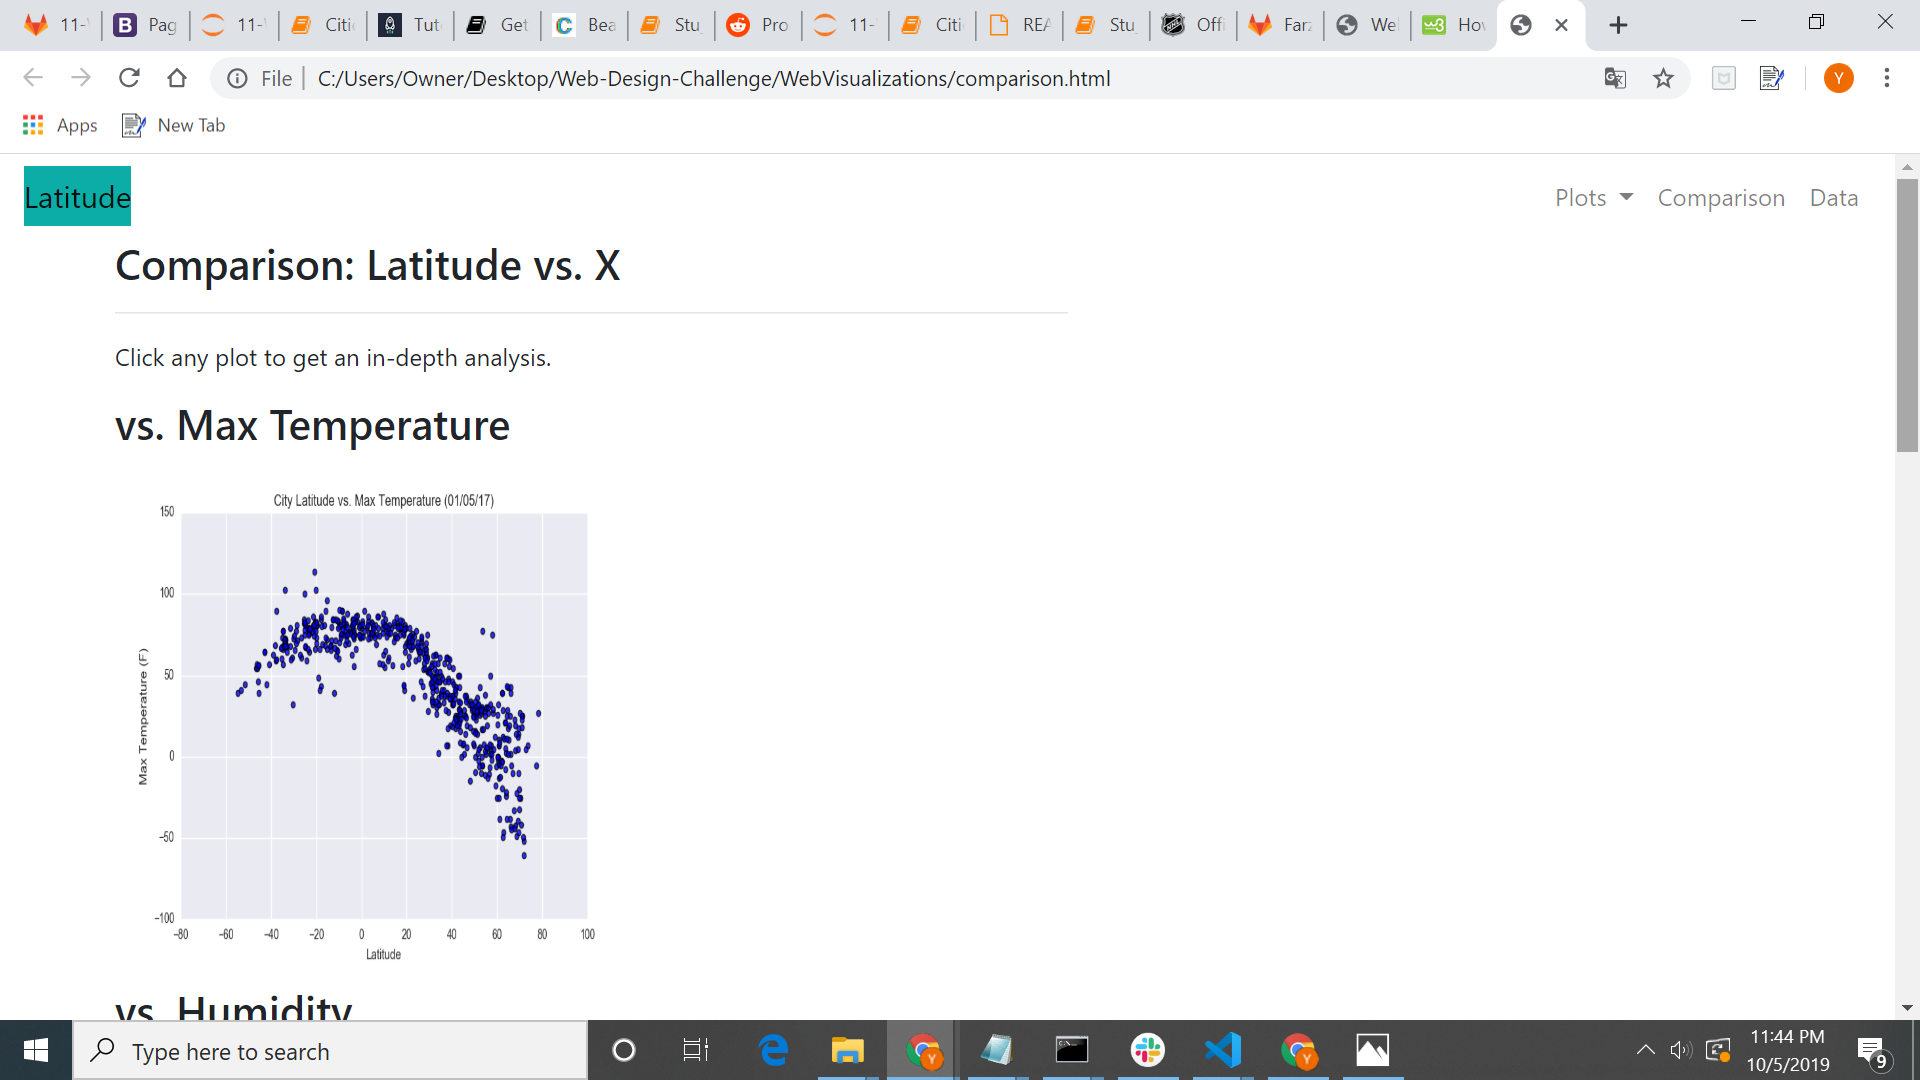
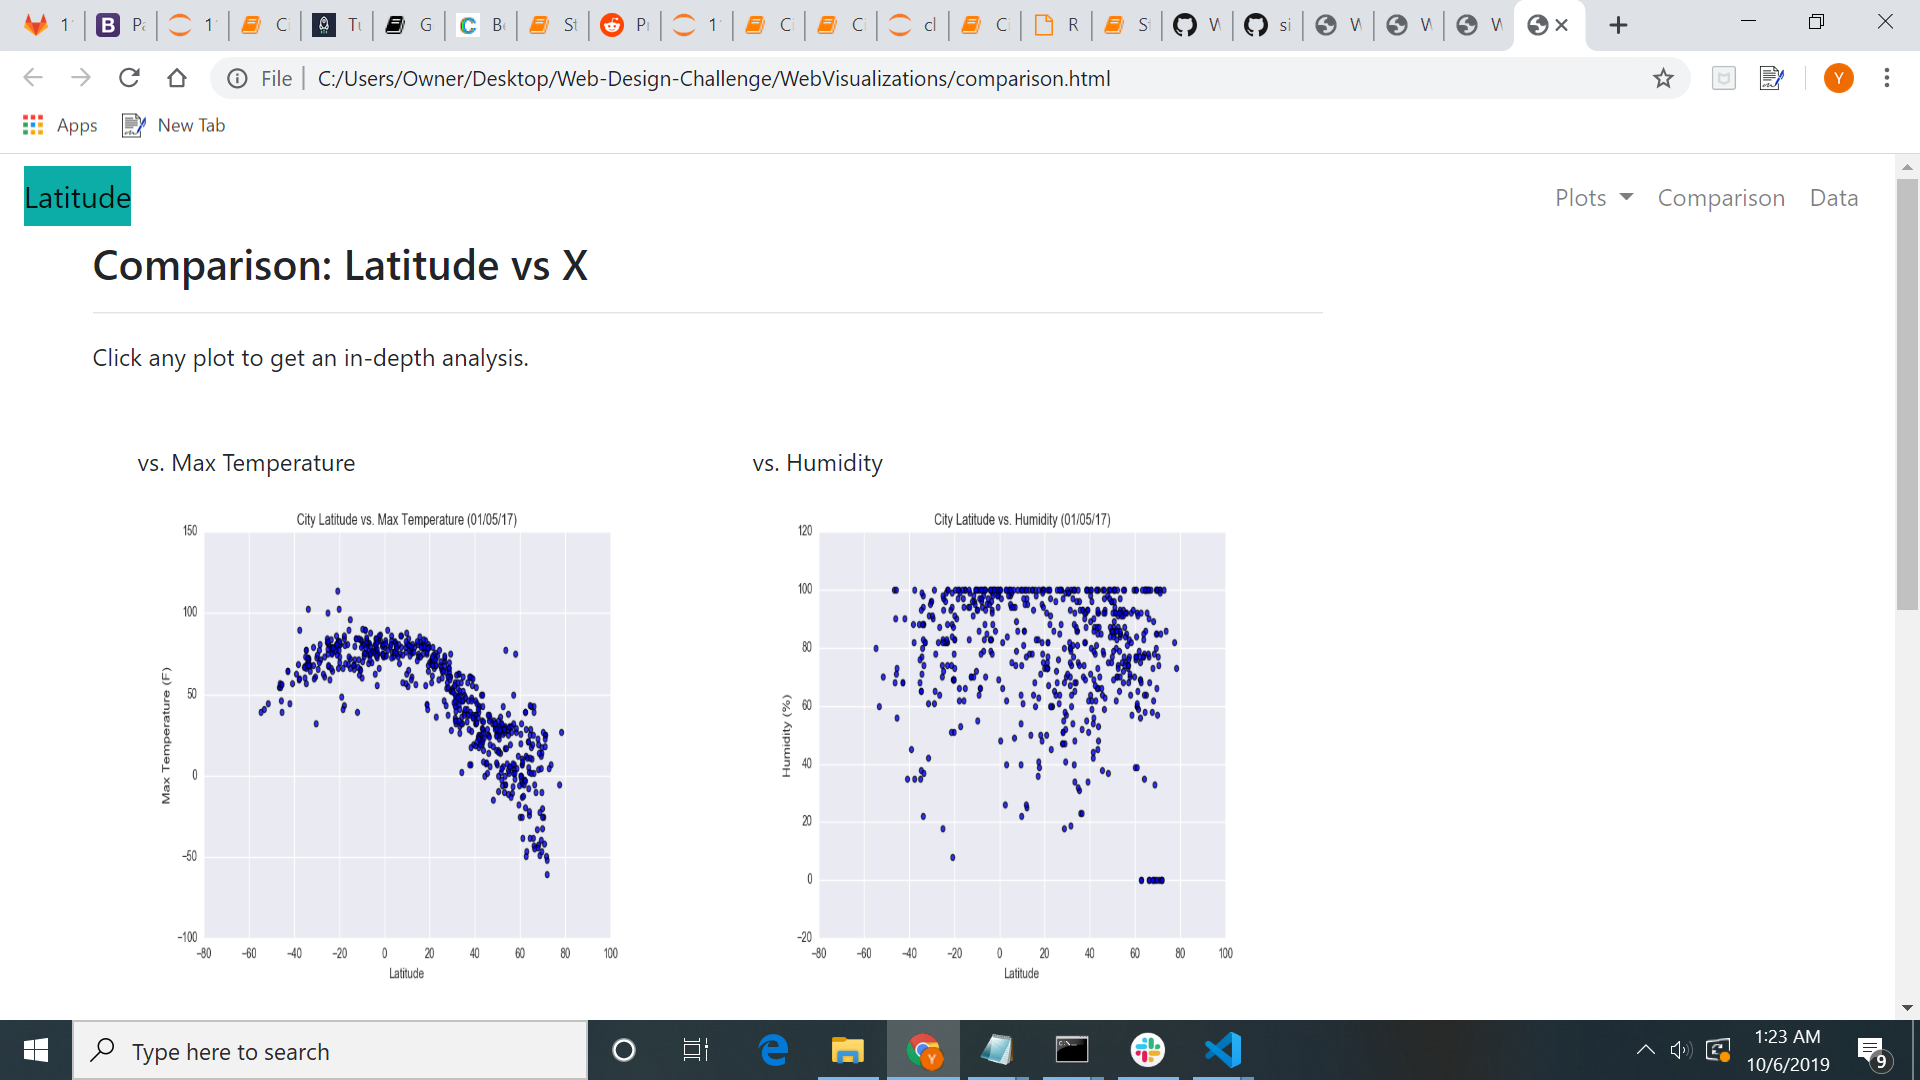
homework

diff --git a/WebVisualizations/comparison.html b/WebVisualizations/comparison.html
@@ -52,32 +52,42 @@
         </nav>
       </div>
     
-      <div class="container">
-        <div class="row">
-          <div class="col-lg-7 col-md-12">
-     <!-- Left box  -->
+<!-- Content Section -->
+<div class="container">
+    <div class="row">
+      <div>
+        <!-- Left box  -->
         <div class="box">
-        <h3 class="title">Comparison: Latitude vs. X</h3>
-        <hr>
-            <p>Click any plot to get an in-depth analysis.</p>
- 
-<div class="col-md-6 col-sm-12">
-<div class="row">
-<div class="image-box">
-<h3>vs. Max Temperature</h3>
-<a href="max_temperature.html"><img class="panel" src="Resources/assets/images/Fig1.png" style = "Float: left" alt="Max Temperature Graph" width="350" height="350"></a>                    
-    </div>
-
-<h3 class = "title">vs. Humidity</h3>
-<a href="humidity.html"><img class="panel" src="Resources/assets/images/Fig2.png" alt="Humidity Graph" width="350" height="350"></a>      
-    </div> 
-
-<h3 class = "title">vs. Cloudiness</h3>
-<a href="cloudiness.html"><img class="panel" src="Resources/assets/images/Fig3.png" alt="Cloudiness Graph" width="350" height="350"></a> 
-    </div>
-<h3 class = "title">vs. Wind Speed</h3>
-<a href="wind_speed.html"><img class="panel" src="Resources/assets/images/Fig4.png" alt="Wind Speed Graph" width="350" height="350"></a> 
-    </div>       
+          <h3 class="title">Comparison: Latitude vs X</h3>
+          <hr>
+          <p>Click any plot to get an in-depth analysis.</p>
+          <div class="container" style="padding-bottom: 40px;">
+            <div class="row">
+            <div class="col-lg-6" style="padding: 30px;">
+        <div class="title">vs. Max Temperature</div>
+    <a href="max_temperature.html">
+        <img class="panel" src="Resources/assets/images/Fig1.png" alt="Max Temperature Image" width="350" height="350"></a>
+              </div>
+                    <div class="col-lg-6" style="padding: 30px;">
+                <div class="title">vs. Humidity</div>
+            <a href="humidity.html">
+        <img class="panel" src="Resources/assets/images/Fig2.png" alt="Humidity Graph" width="350" height="350"></a>
+              </div>
+            </div>
+            <div class="row">
+        <div class="col-lg-6" style="padding: 30px;">
+    <div class="title">vs. Cloudiness</div>
+        <a href="cloudiness.html">
+            <img class="panel" src="Resources/assets/images/Fig3.png" alt="Cloudiness Graph" width="350" height="350"></a>
         </div>
+    <div class="col-lg-6" style="padding: 30px;">
+        <div class="title">vs. Wind Speed</div>
+            <a href="wind_speed.html">
+                <img class="panel" src="Resources/assets/images/Fig4.png" alt="Wind Speed Graph" width="350" height="350"></a>
+              </div>
+            </div>
+        <footer>
+            <div class="footer">Sigdel 2019</div>
+                 </html>
 
-    </html>
+

diff --git a/README.md b/README.md
@@ -1,0 +1,126 @@
+# Web Design Homework - Web Visualization Dashboard (Latitude)
+
+## Background
+
+Data is more powerful when we share it with others! Let's take what we've learned about HTML and CSS to create a dashboard showing off the analysis we've done.
+
+![Images/landingResize.png](Images/landingResize.png)
+
+### Before You Begin
+
+1. Create a new repository for this project called `Web-Design-Challenge`. **Do not add this homework to an existing repository**.
+
+2. Clone the new repository to your computer.
+
+3. Inside your local git repository, create a directory for the web challenge. Use a folder name to correspond to the challenge: **WebVisualizations**.
+
+4. Add your **html** files to this folder as well as your **assets**, **Resources** and **visualizations** folders.
+
+5. Push the above changes to GitHub or GitLab.
+
+## Latitude - Latitude Analysis Dashboard with Attitude
+
+For this homework we'll be creating a visualization dashboard website using visualizations we've created in a past assignment. Specifically, we'll be plotting [weather data](Resources/cities.csv).
+
+In building this dashboard, we'll create individual pages for each plot and a means by which we can navigate between them. These pages will contain the visualizations and their corresponding explanations. We'll also have a landing page, a page where we can see a comparison of all of the plots, and another page where we can view the data used to build them.
+
+### Website Requirements
+
+For reference, see the ["Screenshots" section](#screenshots) below.
+
+The website must consist of 7 pages total, including:
+
+* A [landing page](#landing-page) containing:
+  * An explanation of the project.
+  * Links to each visualizations page.
+* Four [visualization pages](#visualization-pages), each with:
+  * A descriptive title and heading tag.
+  * The plot/visualization itself for the selected comparison.
+  * A paragraph describing the plot and its significance.
+* A ["Comparisons" page](#comparisons-page) that:
+  * Contains all of the visualizations on the same page so we can easily visually compare them.
+  * Uses a bootstrap grid for the visualizations.
+    * The grid must be two visualizations across on screens medium and larger, and 1 across on extra-small and small screens.
+* A ["Data" page](#data-page) that:
+  * Displays a responsive table containing the data used in the visualizations.
+    * The table must be a bootstrap table component.
+    * The data must come from exporting the `.csv` file as HTML, or converting it to HTML. Try using a tool you already know, pandas. Pandas has a nifty method approprately called `to_html` that allows you to generate a HTML table from a pandas dataframe. See the documentation [here](https://pandas.pydata.org/pandas-docs/version/0.17.0/generated/pandas.DataFrame.to_html.html)
+
+The website must, at the top of every page, have a navigation menu that:
+
+* Has the name of the site on the left of the nav which allows users to return to the landing page from any page.
+* Contains a dropdown on the right of the navbar named "Plots" which provides links to each individual visualization page.
+* Provides two more links on the right: "Comparisons" which links to the comparisons page, and "Data" which links to the data page.
+* Is responsive (using media queries). The nav must have similar behavior as the screenshots ["Navigation Menu" section](#navigation-menu) (notice the background color change).
+
+Finally, the website must be deployed to GitHub pages.
+
+When finished, submit to BootcampSpot the links to 1) the deployed app and 2) the GitHub repository.
+
+### Considerations
+
+* You may use the [weather data](Resources/cities.csv) or choose another dataset. Alternatively, you may use the included [cities dataset](Resources/cities.csv) and pull the images from the [assets folder](Resources/assets).
+* You must use bootstrap. This includes using the bootstrap `navbar` component for the header on every page, the bootstrap table component for the data page, and the bootstrap grid for responsiveness on the comparison page.
+* You must deploy your website to GitHub pages, with the website working on a live, publicly accessible URL as a result.
+* Be sure to use a CSS media query for the navigation menu.
+* Be sure your website works at all window widths/sizes.
+* Feel free to take some liberty in the visual aspects, but keep the core functionality the same.
+
+### Bonuses
+
+* Use a different dataset! The requirements above still hold, but make it your own.
+* Use a bootstrap theme to customize your website. You may use a tool like [Bootswatch](https://bootswatch.com/). Make it look snazzy, give it some attitude. If using this, be sure you also meet all of the requirements listed above.
+* Add extra visualizations! The more comparisons the better, right?
+* Use meaningful glyphicons next to links in the header.
+* Have visualization navigation on every visualizations page with an active state. See the screenshots below.
+
+### Screenshots
+
+This section contains screenshots of each page that must be built, at varying screen widths. These are a guide; you can meet the requirements without having the pages look exactly like the below images.
+
+#### Landing page
+
+Large screen:
+![Landing page large screen](Images/landing-lg.png)
+
+Small screen:
+![Landing page small screen](Images/landing-sm.png)
+
+
+#### Comparisons page
+
+Large screen:
+![comparison page large screen](Images/comparison-lg.png)
+
+Small screen:
+![comparison page small screen](Images/comparison-sm.png)
+
+#### Data page
+
+Large screen:
+![data page large screen](Images/data-lg.png)
+
+Small screen:
+![data page small screen](Images/data-sm.png)
+
+#### Visualization pages
+
+You'll build four of these, one for each visualization. Here's an example of one:
+
+Large screen:
+![visualize page large screen](Images/visualize-lg.png)
+
+Small screen:
+![visualize page small screen](Images/visualize-sm.png)
+
+#### Navigation menu
+
+Large screen:
+![nav menu large screen](Images/nav-lg.png)
+
+Small screen:
+![nav menu small screen](Images/nav-sm.png)
+
+### Copyright
+
+Trilogy Education Services © 2019. All Rights Reserved.
